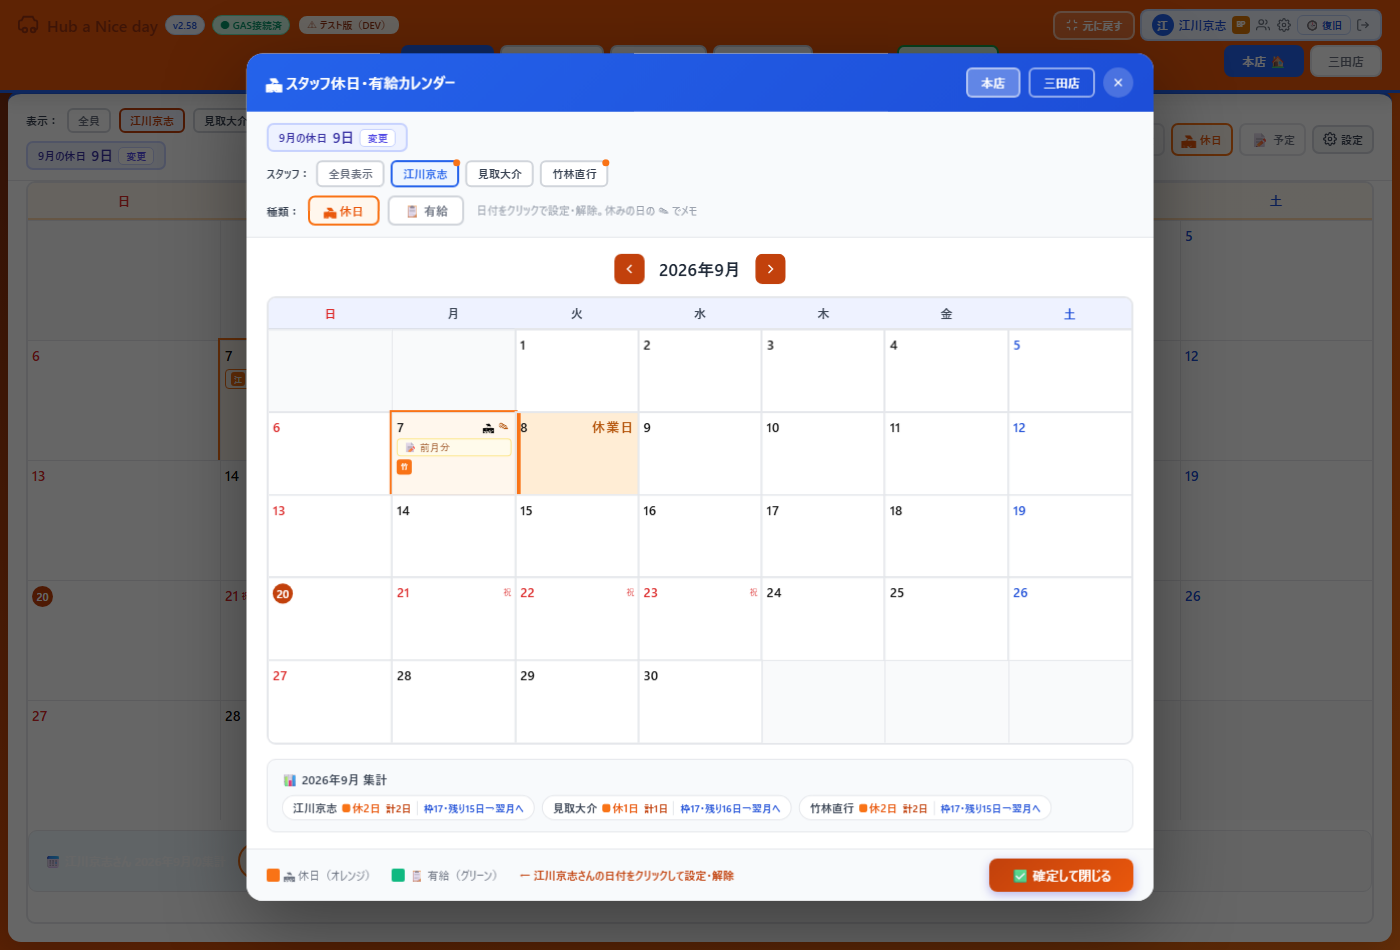
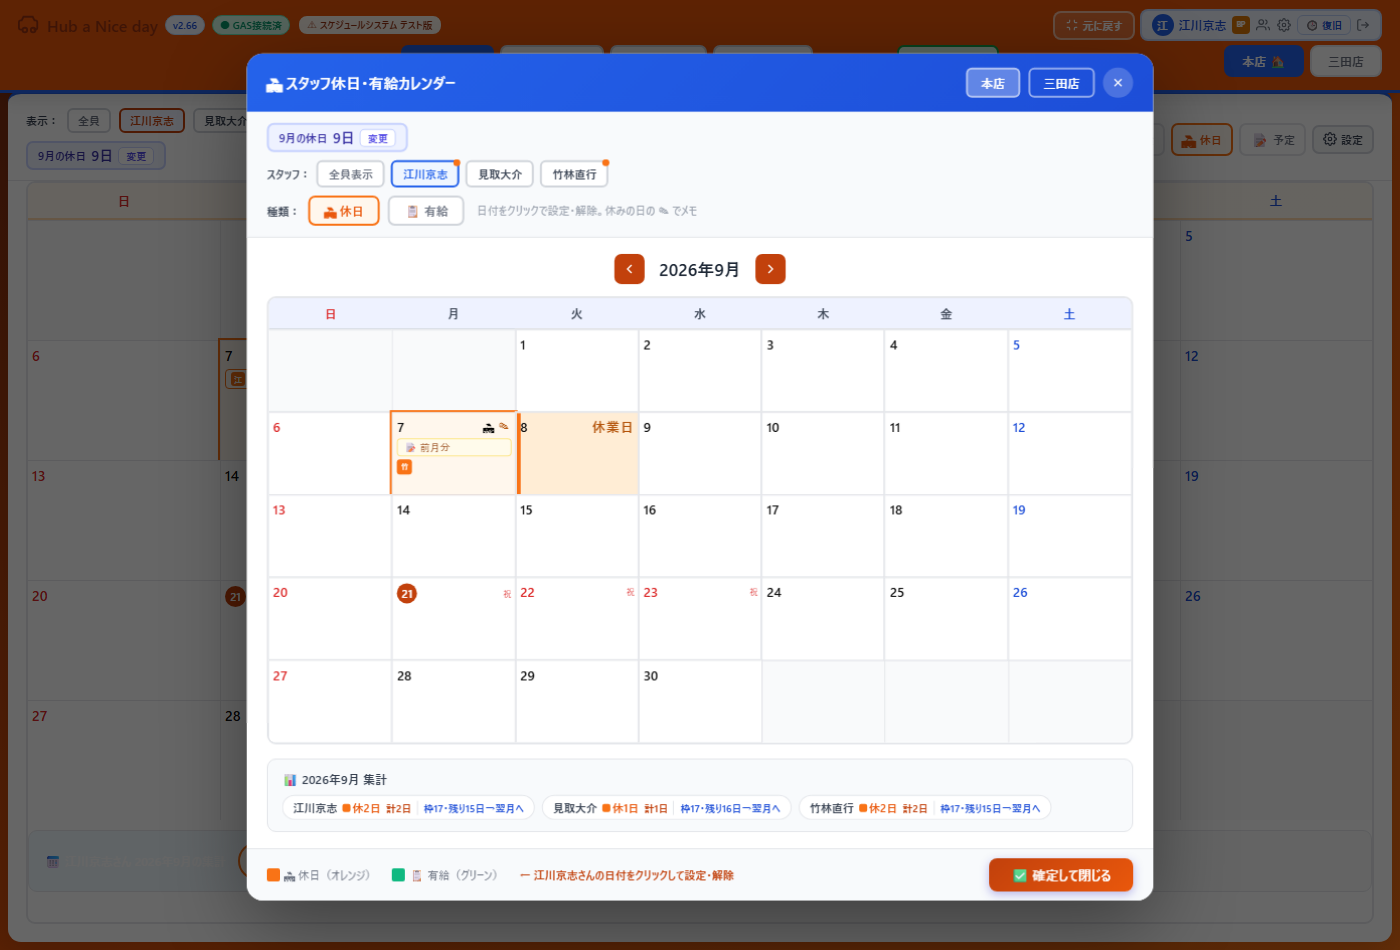
v2.66 スタッフ休日の繰り越し：会社の休日数が未設定の月で繰越を途切れさせる（前々月以前の残りが積み上がって10月の繰越が過大になっていた）

diff --git a/mobile.html b/mobile.html
@@ -17,7 +17,7 @@
   // 画面復帰時と定期に自分自身をno-storeで取得し、__APP_BUILDが変わっていれば更新バナーを表示する。
   // タップ時は cache:'reload' で新HTMLをHTTPキャッシュへ焼き直してから reload するので、確実に新版になる
   // （アプリを消したりURLを打ち直す必要はない）。本番デプロイ時は port_to_main.js が __APP_BUILD を自動更新する。
-  window.__APP_BUILD='build-1789971733454';
+  window.__APP_BUILD='build-1789973195437';
   (function(){
     var RUNNING=window.__APP_BUILD, shown=false, checking=false;
     function runningVer(){
@@ -90,7 +90,7 @@ input,select,textarea{font-family:inherit;font-size:16px;}
 <script id="app-jsx" type="text/plain">
 const {useState,useEffect,useCallback,useMemo,useRef,memo}=React;
 // ★ バージョン管理：システム全体で1つ。変更のたびにindex_dev.htmlのAPP_VERSIONと同値で0.01上げる
-const MOBILE_VERSION='2.65';
+const MOBILE_VERSION='2.66';
 // 本人認証を必須にするか。index_dev.html の AUTH_REQUIRED と必ず同じ値にすること。
 //   false … 従来どおり番号を打てば入れる（移行期間）。登録の入口だけ増える。
 //   true  … この端末で本人確認を済ませた人しか入れない。
@@ -2791,7 +2791,7 @@ const calcHolidayCarry=(name,cy,cm,dayOff,isClosed,mhol)=>{
   const taken=(y,m)=>{const dim=new Date(y,m+1,0).getDate();let o=0;for(let d=1;d<=dim;d++){if(isClosed(y,m,d)){o++;continue;}if(((dayOff||{})[`${y}-${m+1}-${d}`]||[]).includes(name))o++;}return o;};
   let carry=0,y=months[0].y,m=months[0].m,guard=0;
   while((y<cy||(y===cy&&m<cm))&&guard++<240){
-    const c=num(`${y}-${m+1}`); if(c!=null)carry+=c-taken(y,m);
+    const c=num(`${y}-${m+1}`); carry=(c==null)?0:carry+c-taken(y,m);   // 会社の休日数が未設定の月で繰越は途切れる（前々月以前の残りを持ち越さない・2026-09-21）
     m++; if(m>11){m=0;y++;}
   }
   const company=num(`${cy}-${cm+1}`);

diff --git a/index_dev.html b/index_dev.html
@@ -22,7 +22,7 @@
     // 開きっぱなしのタブが旧コードのまま動き続けるのを防ぐ。画面復帰時と定期に自分自身を
     // no-store+クエリ付きで取得し、__APP_BUILD が変わっていれば「更新」バナーを表示する。
     // 本番デプロイ時は port_to_main.js が __APP_BUILD を自動更新する（手動更新不要）。
-    window.__APP_BUILD='build-1789971733454';
+    window.__APP_BUILD='build-1789973195437';
     (function(){
       var RUNNING=window.__APP_BUILD, shown=false, checking=false;
       function runningVer(){
@@ -121,7 +121,7 @@
 const { useState, useEffect, useLayoutEffect, useRef, useCallback, memo, useMemo } = React;
 
 // ★ バージョン管理：アップデートのたびにここだけ変更する
-const APP_VERSION = '2.65';
+const APP_VERSION = '2.66';
 // 本人認証を必須にするか。false の間は従来どおり名前を選ぶだけで入れる（移行期間）。
 //   false … 全員が今までどおり使える。端末の登録（＋スタッフを追加）は先にできる。
 //   true  … その端末で本人確認を済ませた人しかログイン画面に出ない。
@@ -349,7 +349,7 @@ const calcHolidayCarry=(name,cy,cm,dayOff,isClosed,mhol)=>{
   const taken=(y,m)=>{const dim=new Date(y,m+1,0).getDate();let o=0;for(let d=1;d<=dim;d++){if(isClosed(y,m,d)){o++;continue;}if(((dayOff||{})[`${y}-${m+1}-${d}`]||[]).includes(name))o++;}return o;};
   let carry=0,y=months[0].y,m=months[0].m,guard=0;
   while((y<cy||(y===cy&&m<cm))&&guard++<240){
-    const c=num(`${y}-${m+1}`); if(c!=null)carry+=c-taken(y,m);
+    const c=num(`${y}-${m+1}`); carry=(c==null)?0:carry+c-taken(y,m);   // 会社の休日数が未設定の月で繰越は途切れる（前々月以前の残りを持ち越さない・2026-09-21）
     m++; if(m>11){m=0;y++;}
   }
   const company=num(`${cy}-${cm+1}`);

diff --git a/customers.html b/customers.html
@@ -20,7 +20,7 @@
   // 開きっぱなしのタブが旧コードのまま動き続けるのを防ぐ。画面復帰時と定期に自分自身を
   // no-store+クエリ付きで取得し、__APP_BUILD が変わっていれば「更新」バナーを表示する。
   // 本番デプロイ時は port_to_main.js が __APP_BUILD を自動更新する（手動更新不要）。
-  window.__APP_BUILD='build-1789971733454';
+  window.__APP_BUILD='build-1789973195437';
   (function(){
     var RUNNING=window.__APP_BUILD, shown=false, checking=false;
     function runningVer(){
@@ -141,7 +141,7 @@ const hubRenew = async name => {};
 // index側の全画面オーバーレイ（iframe）内で開かれているか。埋め込み時は
 // 「スケジュールに戻る」がページ遷移ではなく親へのpostMessage（オーバーレイ閉鎖）になる。
 const IS_EMBED=(()=>{try{return window.self!==window.top;}catch(e){return true;}})();
-const APP_VERSION='2.65'; // 表示用バージョン。更新ごとに上げる（軽微+0.01／大型は整数を上げる）。index_dev.htmlと揃える
+const APP_VERSION='2.66'; // 表示用バージョン。更新ごとに上げる（軽微+0.01／大型は整数を上げる）。index_dev.htmlと揃える
 const storKey=(base,sid)=>`${STOR}${sid}-${base}`;
 const CHUNK_SIZE=100;
 // ファイル名をGASキーに使える形に変換

diff --git a/admin.html b/admin.html
@@ -218,7 +218,7 @@ td.act{text-align:right;white-space:nowrap}
 //  この画面を開けるのは、許可簿（Firestore の meta/allowed）で role=admin の人だけ。
 //  ログインは Firebase Authentication のメールリンク（2026-09-18〜）。判定は Firestore のルールが行う。画面の申告は信用しない。
 // =====================================================================
-var APP_VERSION = '2.65';
+var APP_VERSION = '2.66';
 var GAS_URL     = 'https://script.google.com/macros/s/AKfycbyNE1eVKjibSPLEA0HrVZI8NxEFKWQfMYQ6cKoM1Gznauy9AhfZqHzgs1zzMaxXnQ1_/exec';
 // 環境の切り替え（2026-09-15）。この1ファイルで本番とDEVの両方を扱う。
 //   既定はDEV（安全側）。URLに ?env=prod が付いている時だけ本番のデータを扱う。

diff --git a/CLAUDE.md b/CLAUDE.md
@@ -79,7 +79,7 @@ This file provides guidance to Claude Code (claude.ai/code) when working with co
 - `${STOR}{store}-lres` — 代車予約。**オブジェクト構造** `{ carId: { key: 予約 } }`（配列ではない）。
 - `${STOR}rres` — レンタカー予約。これも**オブジェクト構造** `{ carId: { key: 予約 } }`。
 - `${STOR}cf-index` / `${STOR}cf-{name}-chunk-{i}` — 顧客ファイル（Excelインポート結果）をチャンク分割保存。
-- `${STOR}{store}-dayoff` / `-pleave` — スタッフ休日／有給 `{"YYYY-M-D":[氏名]}`。`{store}-offnote` — 休日メモ `{"YYYY-M-D::氏名":"メモ"}`。`mholidays` — 会社の月間休日数 `{"YYYY-M":N}`（繰り越し計算 `calcHolidayCarry` の元）。
+- `${STOR}{store}-dayoff` / `-pleave` — スタッフ休日／有給 `{"YYYY-M-D":[氏名]}`。`{store}-offnote` — 休日メモ `{"YYYY-M-D::氏名":"メモ"}`。`mholidays` — 会社の月間休日数 `{"YYYY-M":N}`（繰り越し計算 `calcHolidayCarry` の元。**会社の休日数が未設定の月で繰越は途切れる**＝繰越は連続して設定した月の間だけ流れる。v2.66。index/mobile に同じコード）。
 - `${STOR}mysched` — マイスケジュール（公開予定）`{id:{dk,time,title,memo,owner,uid,at}}`。`${STOR}mysec-{スタッフuid}` — シークレット予定の**暗号化書庫**（`{hint,salt,iter,checkIv,check,iv,data}`。AES-GCM、鍵は「ヒントの答え」から PBKDF2。**答えを忘れると復元不能・運営も読めない**。共通コードは index/mobile 両方にある `HubSecret`/`useHubSecret`/`MySchedPanel`）。
 
 ### loanerRes / rentalRes は配列ではなくオブジェクト
